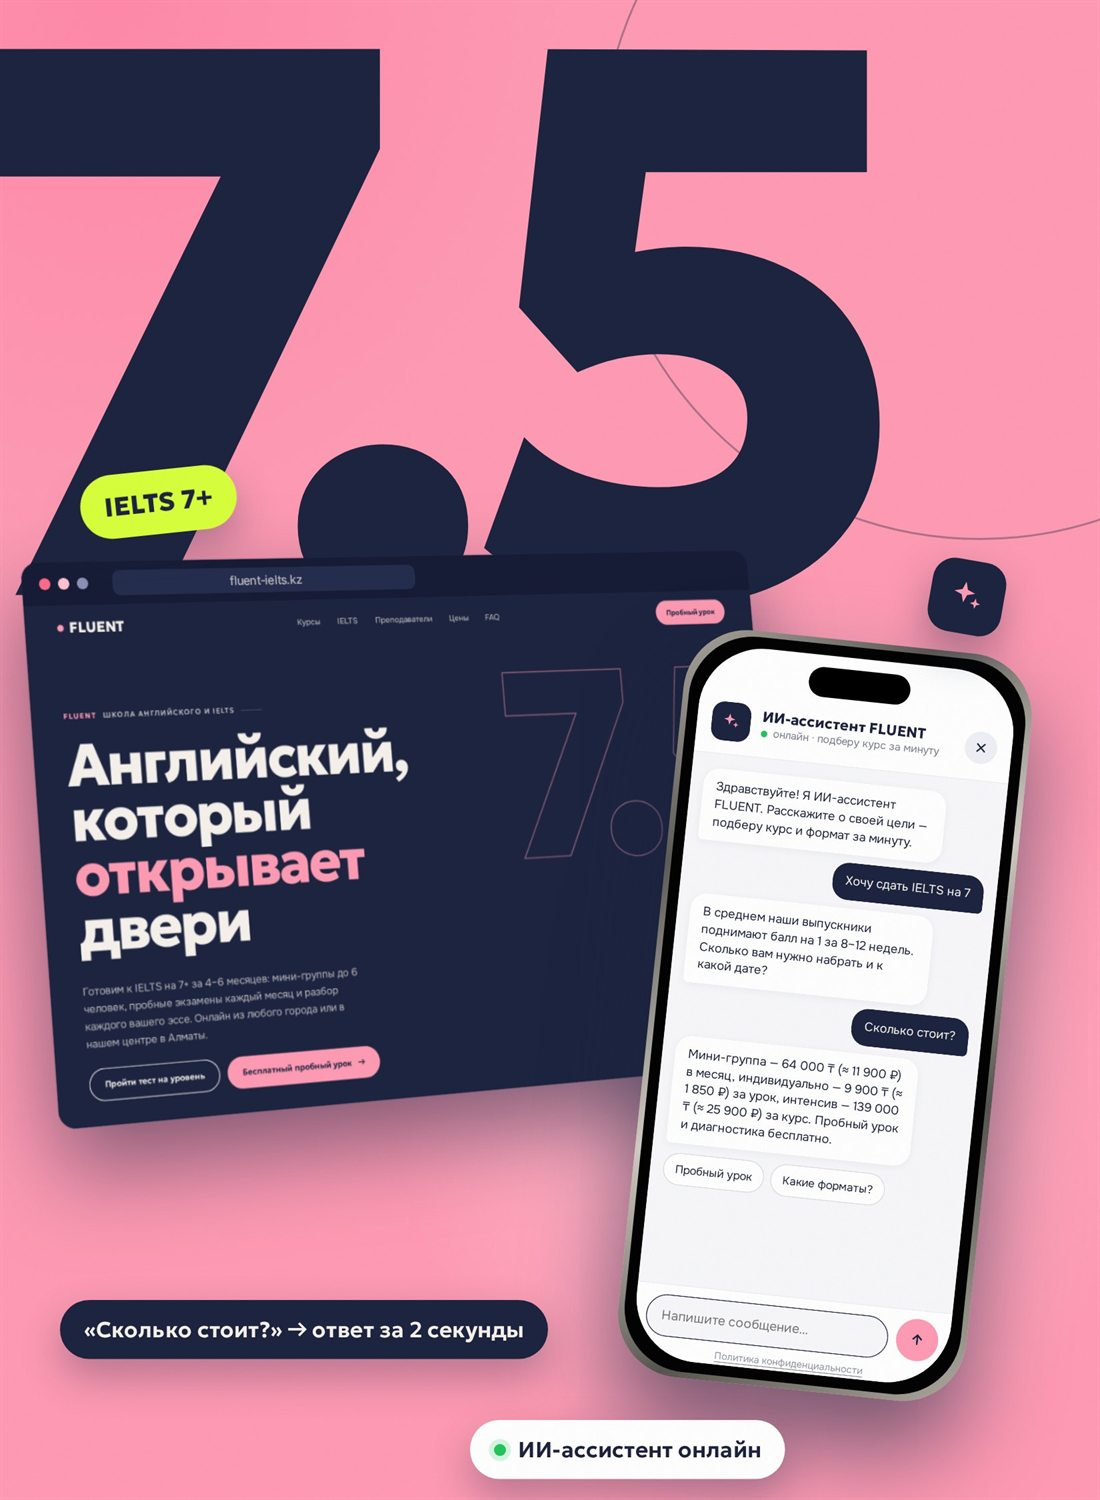
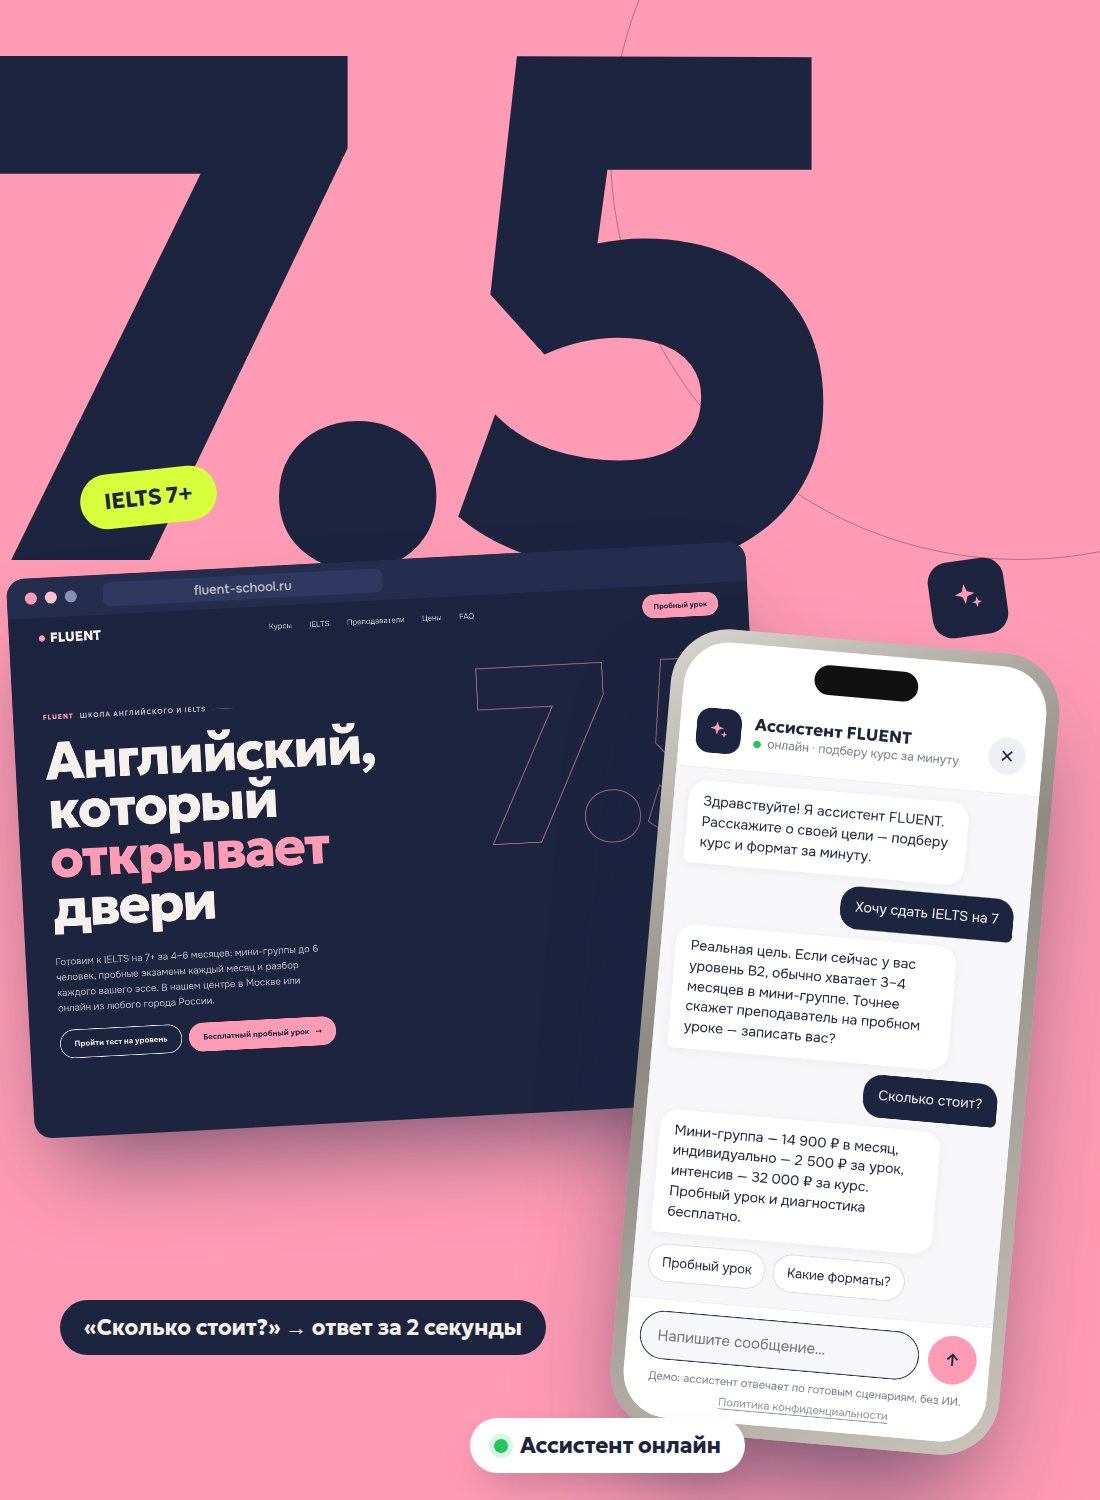
Кейс FLUENT: кнопка «CRM курса» и превью без тенге
- кнопка у кейса как у srez: «CRM курса»
- превью кейса пересобрано с текущего сайта: цены в рублях, Москва, без .kz

Claude-Session: https://claude.ai/code/session_01XzYd9Hm9d3wU4HR5sWUpVJ

diff --git a/index.html b/index.html
@@ -618,9 +618,9 @@
             <ul class="case__proof">
               <li><strong>Чат</strong><span>ассистент 24/7</span></li>
               <li><strong>Тест</strong><span>подбор курса за 2 минуты</span></li>
-              <li><strong>Панель</strong><span>заявок</span></li>
+              <li><strong>CRM</strong><span>заявки, оплаты, ученики</span></li>
             </ul>
-            <div class="case__links"><a class="case__link" href="./fluent/index.html">Открыть сайт <i aria-hidden="true">↗</i></a><a class="case__link" href="./english-crm/">Панель заявок <i aria-hidden="true">↗</i></a></div>
+            <div class="case__links"><a class="case__link" href="./fluent/index.html">Открыть сайт <i aria-hidden="true">↗</i></a><a class="case__link" href="./english-crm/">CRM курса <i aria-hidden="true">↗</i></a></div>
           </div>
         </article>
 
